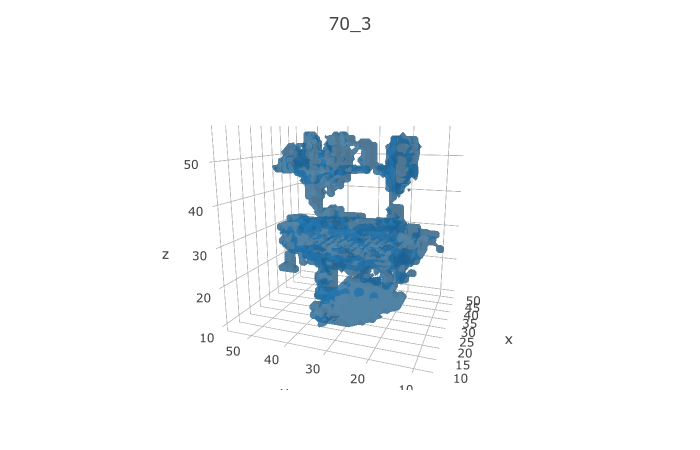
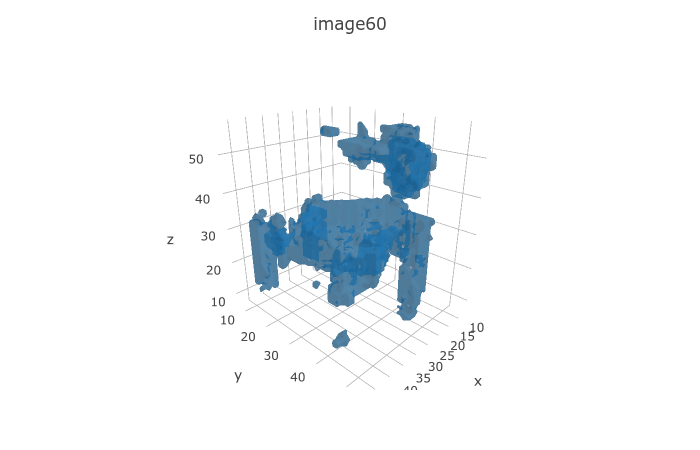
new interpolation

diff --git a/src/vis.py b/src/vis.py
@@ -17,10 +17,10 @@ def plotVoxelVisdom(voxels, visdom, title):
 
 #mats = loadmat("../../../3DShapeNets/volumetric_data/desk/30/train/desk_000000001_5.mat")
 #mats = loadmat("image_chair_desk2.mat")
-mats = np.load("interpolation_new1")
+mats = np.load("interpolation4")
 #print (type(mats['voxels']),mats['voxels'].shape)
 #plotVoxelVisdom(np.squeeze(mats['instance']>0.5), vis, 'chair')
-for i in range(0,50,2):
+for i in range(0,200,10):
 	plotVoxelVisdom(np.squeeze(mats[i]>0.5), vis, 'image'+str(i))
 
 #plotVoxelVisdom(np.squeeze(mats[0]>0.5), vis, 'image'+str(0))

diff --git a/test.py b/test.py
@@ -9,14 +9,14 @@ np.set_printoptions(threshold=np.nan)
 
 #io.savemat("test",{"voxels":x})
 
-mats = np.load("src/interpolation2")
+mats = np.load("src/interpolation3")
 print mats.shape
 
 batch_size = 200
 #mats = mats>0.5
 d = []
-for i in range(100,120):
-	d.append(np.sum(np.absolute(mats[i]-mats[100])))
+for i in range(0,200, 10):
+	d.append(np.sum(np.absolute(mats[i]-mats[0])))
 	#print np.sum(np.absolute(mats[i]-mats[100]))
 
 plt.plot(range(20),d)
